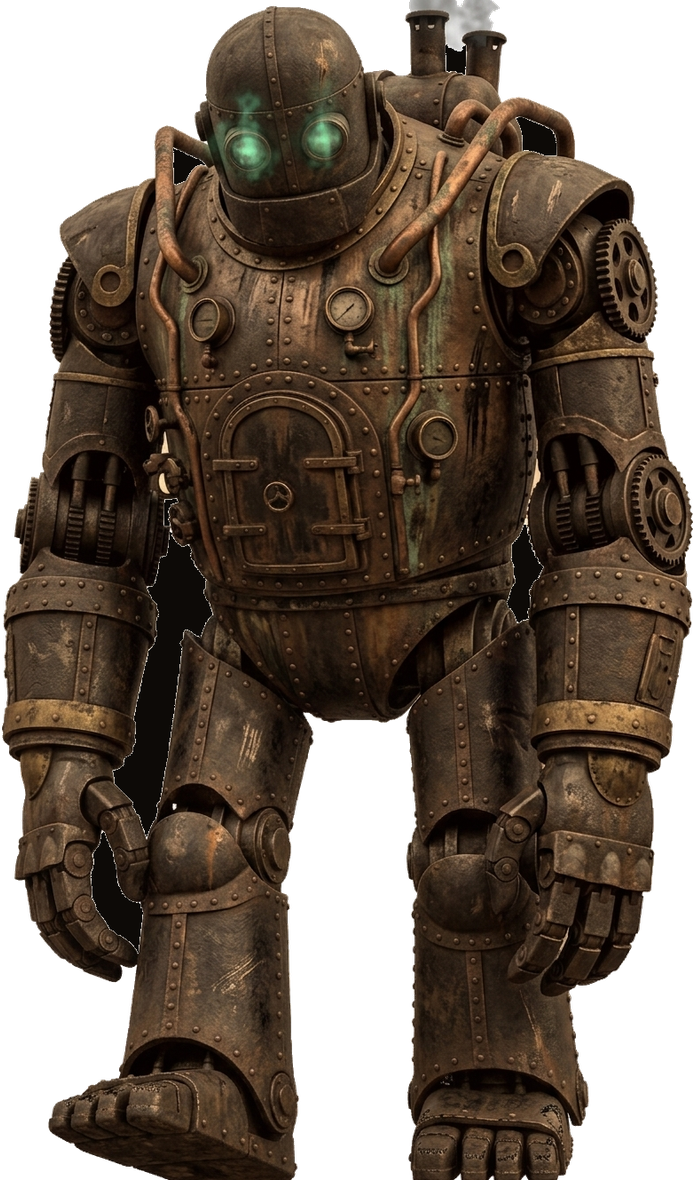
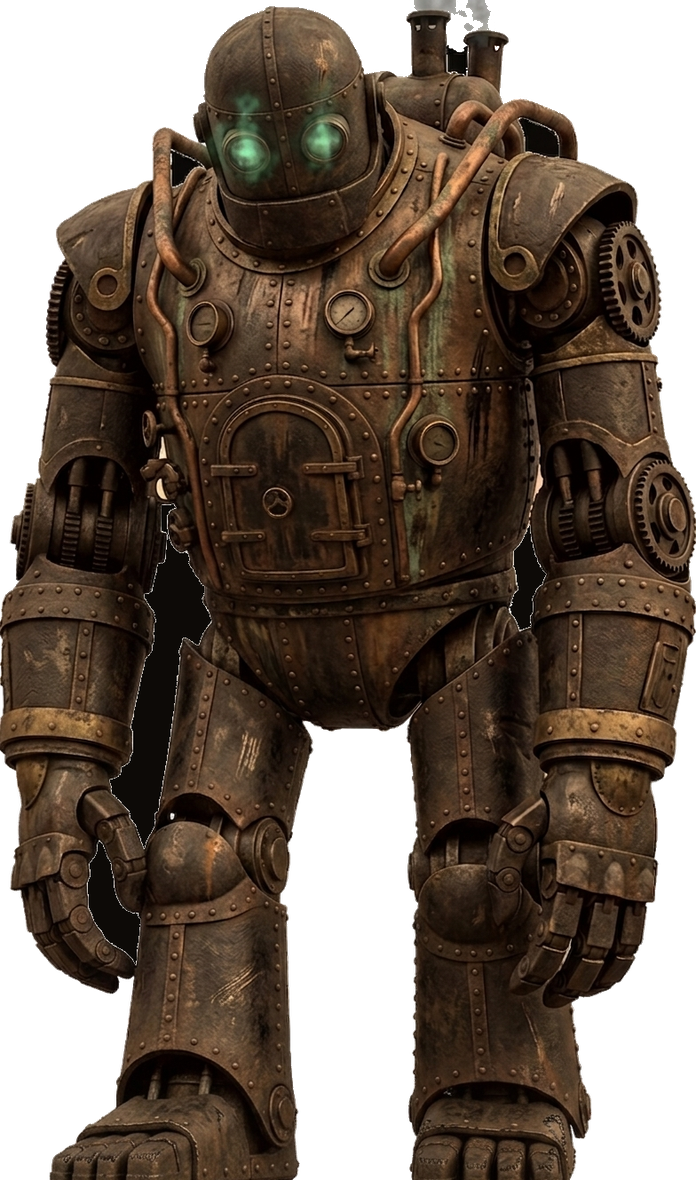
## Flat Foot Fix Complete (verified live mid-awakening) - Regenerated the golem's step frame so his forward foot plants completely flat on the floor — no more toes pointing up; design, lighting, and green-eyed pose all match the sequence - Cleaned a stray white steam blob the generator added at his 

diff --git a/frontend/src/components/scenes/AmbianceScene.jsx b/frontend/src/components/scenes/AmbianceScene.jsx
@@ -811,7 +811,7 @@ export function AmbianceScene({ theme, cfg, heistEpoch = 0 }) {
             <img src={cfg.golemRight} alt="" className="absolute inset-0 h-full w-full object-contain" style={{ opacity: golemWake === 0 || golemWake === 6 ? 1 : 0, transition: "opacity 0.5s ease", filter: "drop-shadow(0 6px 10px rgba(0,0,0,0.55)) brightness(0.92)" }} />
             <img src="/steam-golem-right-awake.png" alt="" className="absolute inset-0 h-full w-full object-contain" style={{ opacity: golemWake === 1 || golemWake === 5 ? 1 : 0, transition: "opacity 0.5s ease", filter: "drop-shadow(0 6px 10px rgba(0,0,0,0.55)) brightness(0.92)" }} data-testid="golem-wake-awake" />
             <img src="/steam-golem-right-lift.png?v=475" alt="" className="absolute inset-0 h-full w-full object-contain" style={{ opacity: golemWake === 2 || golemWake === 4 ? 1 : 0, transition: "opacity 0.5s ease", filter: "drop-shadow(0 6px 10px rgba(0,0,0,0.55)) brightness(0.92)" }} data-testid="golem-wake-lift" />
-            <img src="/steam-golem-right-step.png?v=475" alt="" className="absolute inset-0 h-full w-full object-contain" style={{ opacity: golemWake === 3 ? 1 : 0, transition: "opacity 0.5s ease", filter: "drop-shadow(0 6px 10px rgba(0,0,0,0.55)) brightness(0.92)" }} data-testid="golem-wake-step" />
+            <img src="/steam-golem-right-step.png?v=490" alt="" className="absolute inset-0 h-full w-full object-contain" style={{ opacity: golemWake === 3 ? 1 : 0, transition: "opacity 0.5s ease", filter: "drop-shadow(0 6px 10px rgba(0,0,0,0.55)) brightness(0.92)" }} data-testid="golem-wake-step" />
             {/* smoky green aura around the head while he's awake */}
             {golemWake >= 1 && golemWake <= 5 && (
               <div className="absolute" style={{ left: "22%", top: "1%", width: "26%", aspectRatio: "1" }} data-testid="golem-wake-aura">

diff --git a/frontend/public/index.html b/frontend/public/index.html
@@ -60,7 +60,7 @@
         <title>Fork·Fate — Restaurant Roulette</title>
         <script>window.addEventListener("error",function(e){if(e.error instanceof DOMException&&e.error.name==="DataCloneError"&&e.message&&e.message.includes("PerformanceServerTiming")){e.stopImmediatePropagation();e.preventDefault()}},true);</script>
         <script>(function(){try{if('serviceWorker' in navigator){window.addEventListener('load',function(){navigator.serviceWorker.register('/service-worker.js',{scope:'/'}).catch(function(){});});}}catch(e){}})();</script>
-        <script>(function(){try{var FF_BUILD="2026.06-489";var prev=localStorage.getItem("ff_build");if(prev!==FF_BUILD){localStorage.setItem("ff_build",FF_BUILD);if(window.caches&&caches.keys){caches.keys().then(function(keys){keys.forEach(function(k){caches.delete(k);});});}if(prev&&!sessionStorage.getItem("ff_build_reloaded")){sessionStorage.setItem("ff_build_reloaded","1");location.reload(true);}}}catch(e){}})();</script>
+        <script>(function(){try{var FF_BUILD="2026.06-490";var prev=localStorage.getItem("ff_build");if(prev!==FF_BUILD){localStorage.setItem("ff_build",FF_BUILD);if(window.caches&&caches.keys){caches.keys().then(function(keys){keys.forEach(function(k){caches.delete(k);});});}if(prev&&!sessionStorage.getItem("ff_build_reloaded")){sessionStorage.setItem("ff_build_reloaded","1");location.reload(true);}}}catch(e){}})();</script>
         <script src="https://assets.emergent.sh/scripts/emergent-main.js"></script>
         <!-- Google Analytics 4 -->
         <script async src="https://www.googletagmanager.com/gtag/js?id=G-4E739B8J0H"></script>

diff --git a/scripts/gen_golem_step_flat.py b/scripts/gen_golem_step_flat.py
@@ -1,0 +1,40 @@
+"""Fix the right golem's 'step' frame: the forward (right) foot currently
+plants with the toes tilted UP — regenerate with the foot FLAT on the floor."""
+import asyncio
+import base64
+import os
+
+from dotenv import load_dotenv
+
+load_dotenv("/app/backend/.env")
+from emergentintegrations.llm.chat import LlmChat, UserMessage, ImageContent
+
+with open("/app/frontend/public/steam-golem-right-step.png", "rb") as f:
+    REF = base64.b64encode(f.read()).decode("utf-8")
+
+PROMPT = (
+    "Edit this steampunk automaton golem mid-step image. The ONLY change: its forward "
+    "(right) foot is currently planted with the TOES TILTED UPWARD off the floor — fix it so that "
+    "forward foot is planted COMPLETELY FLAT on the ground, sole fully in contact with the floor, "
+    "toes down and level with the heel. "
+    "Keep EVERYTHING else about this exact robot identical: same pose, same head raised with glowing "
+    "smoky green eye lenses, same design, same bronze/brass weathered materials, same proportions, "
+    "same three chimney stacks on the back, same lighting, same camera angle, same scale and position "
+    "in the frame, back foot unchanged. "
+    "Isolated on a plain solid white background, full body visible, nothing cropped, no text."
+)
+
+
+async def main() -> None:
+    chat = LlmChat(api_key=os.getenv("EMERGENT_LLM_KEY"), session_id="golem-step-flat", system_message="You are an expert sprite artist.")
+    chat.with_model("gemini", "gemini-3.1-flash-image-preview").with_params(modalities=["image", "text"])
+    text, images = await chat.send_message_multimodal_response(UserMessage(text=PROMPT, file_contents=[ImageContent(REF)]))
+    if not images:
+        print(f"NO IMAGE ({(text or '')[:100]})")
+        return
+    with open("/app/scripts/golem_step_flat_raw.png", "wb") as f:
+        f.write(base64.b64decode(images[0]["data"]))
+    print("saved /app/scripts/golem_step_flat_raw.png")
+
+
+asyncio.run(main())

diff --git a/memory/CHANGELOG.md b/memory/CHANGELOG.md
@@ -810,3 +810,9 @@ ROADMAP idea (user): future categories beyond food/drinks/bars/desserts -> antiq
   bleeds in as an amber edge glow (golem-duet-flicker-mobile, sm:hidden inverse,
   two "eyes" + haze, same ffBroFlicker timing). Verified display:block at 390px
   while steam-golem-left is display:none.
+
+## 2026-02 (fork) — Flat-footed step frame (FF_BUILD 490)
+- User: step pose had toes pointing up. Regenerated steam-golem-right-step.png
+  via Gemini Nano (scripts/gen_golem_step_flat.py: 'forward foot COMPLETELY FLAT')
+  + process_golem_pose.py pipeline; erased a leftover white steam blob at the
+  chimneys (y<120 whitish clear). src ?v=490. Verified live at wake phase 3.
